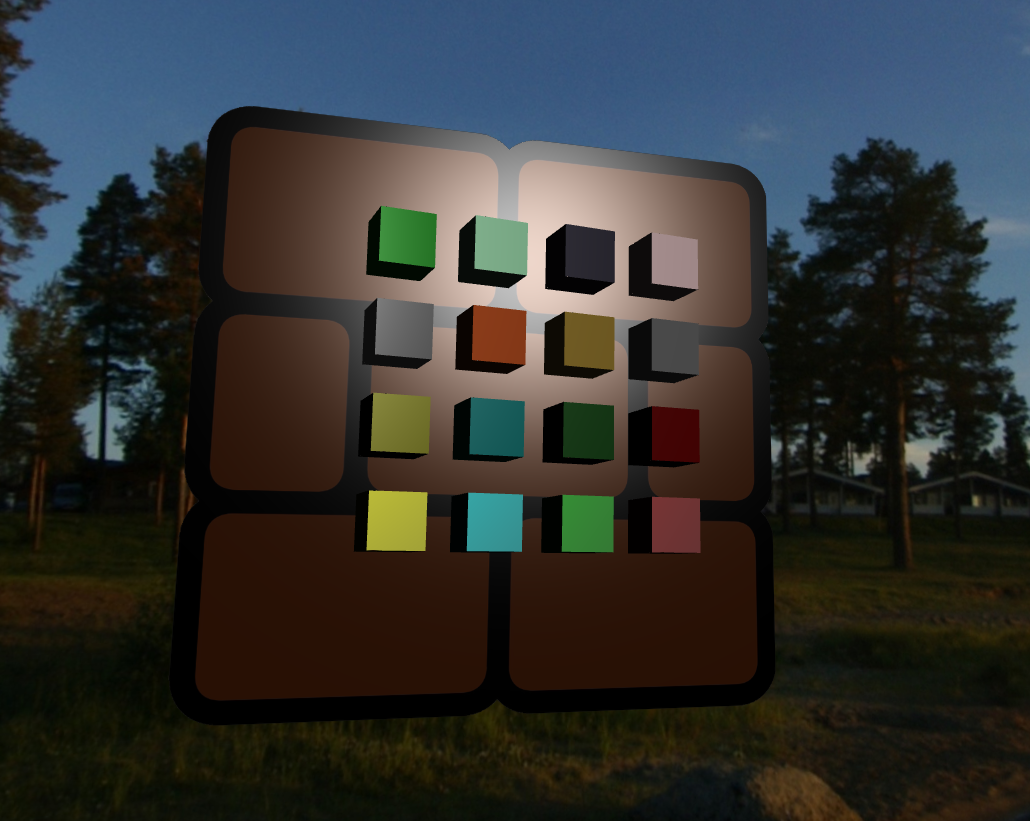
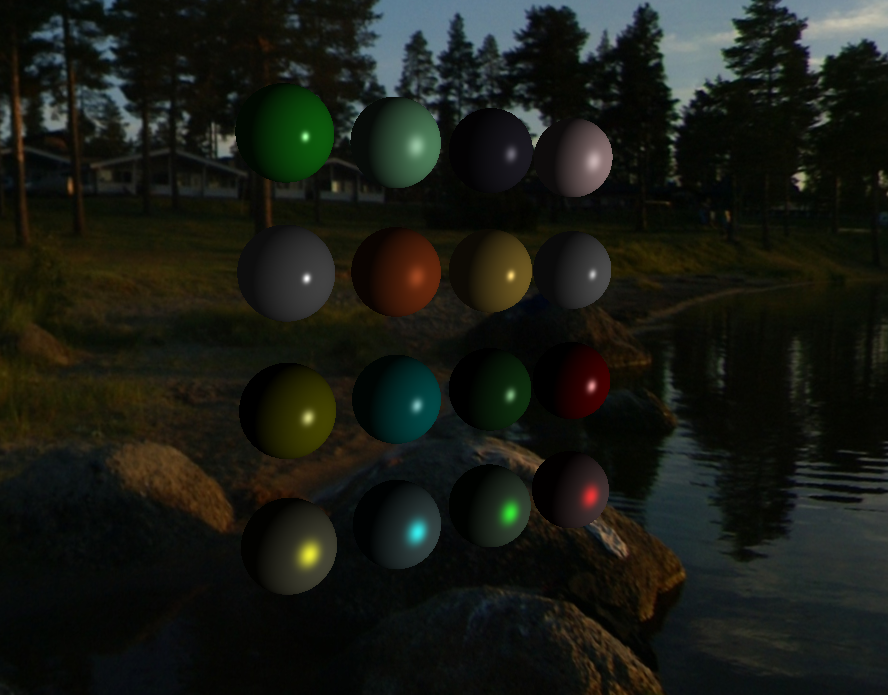
Sphere bug fixed, new demo, pbr light and working on pbr shader

diff --git a/Sandbox/src/TestLayer.cpp b/Sandbox/src/TestLayer.cpp
@@ -56,11 +56,10 @@ void TestLayer::OnAttach()
 	m_EnvironmentMap = BIGOS::TextureCube::Create(environmentFiles);
 
 	m_GridMesh = BIGOS::MeshGenerator::CreateGrid(3.0f, 3.0f, 2, 2);
-	m_CubeMesh = BIGOS::MeshGenerator::CreateBox({ 1.0f, 1.0f, 1.0f });
+	//m_CubeMesh = BIGOS::MeshGenerator::CreateBox({ 1.0f, 1.0f, 1.0f });
 	m_Skybox = BIGOS::MeshGenerator::CreateBox({ 30.0f, 30.0f, 30.0f });
 	m_ScreenMesh = BIGOS::MeshGenerator::CreateScreen();
-	//m_Cube = BIGOS::MeshGenerator::CreateSmoothCube(1.0f);
-	//m_Cube = BIGOS::MeshGenerator::CreateSphere(1.0f, 32, 10);
+	m_CubeMesh = BIGOS::MeshGenerator::CreateSphere(1.0f, 64, 64);
 	
 	m_CBPerObject = BIGOS::ConstantBuffer::Create(sizeof(POConstantBufferData));
 	m_CBPerFrame = BIGOS::ConstantBuffer::Create(sizeof(PFConstantBufferData));
@@ -125,8 +124,7 @@ void TestLayer::OnUpdate(BIGOS::Utils::Timestep ts)
 	m_CBPerFrame->Bind(0);
 
 	POConstantBufferData cbPerObject;
-
-	//BIGOS::RenderCommand::SetBlending(false);
+	 /*
 	BIGOS::math::mat4 tempTrans = BIGOS::math::mat4::Translate(m_WallPosition);
 	BIGOS::math::mat4 tempRot = BIGOS::math::mat4::Rotate(90.0f, { 1, 0, 0 });
 	BIGOS::math::mat4 tempScale = BIGOS::math::mat4::Scale({ 5.0, 5.0f, 5.0f });
@@ -142,7 +140,7 @@ void TestLayer::OnUpdate(BIGOS::Utils::Timestep ts)
 	m_GridMesh->Render();
 	m_NormalTexture->Unbind(1);
 	m_Texture->Unbind();
-	
+	*/
 	
 	m_WhiteTexture->Bind();
 
@@ -152,8 +150,8 @@ void TestLayer::OnUpdate(BIGOS::Utils::Timestep ts)
 		for (size_t j = 0; j < 4; j++)
 		{
 			BIGOS::math::mat4 tempTrans = BIGOS::math::mat4::Translate({ -3.0f + 2 * j, 3.0f - 2 * i, -0.0f });
-			BIGOS::math::mat4 tempRot = BIGOS::math::mat4::Rotate(m_Rotation, { 0, 1, 0 });
-			BIGOS::math::mat4 tempScale = BIGOS::math::mat4::Scale({ 1.2f, 1.2f, 1.2f });
+			BIGOS::math::mat4 tempRot = BIGOS::math::mat4::Rotate(0, { 0, 1, 0 });
+			BIGOS::math::mat4 tempScale = BIGOS::math::mat4::Scale({ 0.7f, 0.7f, 0.7f });
 
 			cbPerObject.u_Transform = tempTrans * tempRot * tempScale;
 			cbPerObject.u_ViewProj = m_EditorCamera.GetViewProjection();

diff --git a/BIGOSengine/src/Engine/Renderer/MeshGenerator.cpp b/BIGOSengine/src/Engine/Renderer/MeshGenerator.cpp
@@ -129,18 +129,29 @@ namespace BIGOS {
 				//v.Normal.y = 1.0f;
 				//v.Normal.z = 1.0f;
 
+				v.TangentU.x = -radius * sinf(phi) * sinf(theta);
+				v.TangentU.y = 0.0f;
+				v.TangentU.z = +radius * sinf(phi) * cosf(theta);
+
+				v.TangentU = v.TangentU.Normalize();
+
+				v.UV.x = theta / PI;
+				v.UV.y = phi /PI;
+
 				vertices.push_back(v);
 			}
 		}
 
 		vertices.push_back(bottomVertex);
 
-		std::shared_ptr<VertexBuffer> vb = VertexBuffer::Create(vertices.size());
+		std::shared_ptr<VertexBuffer> vb = VertexBuffer::Create(vertices.size() * sizeof(Vertex));
 		vb->SetLayout({
 			{ BIGOS::ShaderDataType::Float3, "POSITION" },
-			{ BIGOS::ShaderDataType::Float3, "NORMAL"	}
+			{ BIGOS::ShaderDataType::Float3, "NORMAL"	},
+			{ BIGOS::ShaderDataType::Float3, "TANGENT"	},
+			{ BIGOS::ShaderDataType::Float2, "TEXCOORD"	}
 			});
-		vb->SetData(vertices.data(), vertices.size());
+		vb->SetData(vertices.data(), vertices.size() * sizeof(Vertex));
 
 		//
 		// Compute indices for top stack.  The top stack was written first to the vertex buffer
@@ -169,7 +180,7 @@ namespace BIGOS {
 				indices.push_back(baseIndex + i * ringVertexCount + j);
 				indices.push_back(baseIndex + i * ringVertexCount + j + 1);
 				indices.push_back(baseIndex + (i + 1) * ringVertexCount + j);
-				
+
 				indices.push_back(baseIndex + (i + 1) * ringVertexCount + j);
 				indices.push_back(baseIndex + i * ringVertexCount + j + 1);
 				indices.push_back(baseIndex + (i + 1) * ringVertexCount + j + 1);
@@ -194,7 +205,7 @@ namespace BIGOS {
 			indices.push_back(baseIndex + i + 1);
 		}
 
-		std::shared_ptr<IndexBuffer> ib = IndexBuffer::Create(indices.data(),indices.size());
+		std::shared_ptr<IndexBuffer> ib = IndexBuffer::Create(indices.data(), indices.size());
 
 		return new Mesh(vb, ib);
 	}

diff --git a/BIGOSengine/src/Engine/Renderer/Light.h b/BIGOSengine/src/Engine/Renderer/Light.h
@@ -5,6 +5,19 @@
 
 namespace BIGOS {
 
+
+	__declspec(align(16)) 
+	struct Light
+	{
+		math::vec4 Color;
+		math::vec3 Position;
+		math::vec3 Direction;
+		float Intensity;
+
+		Light(const math::vec3& direction, const math::vec3& position, float intensity = 1.0f, const math::vec4& color = math::vec4(1.0f))
+			: Direction(direction), Position(position), Color(color), Intensity(intensity) {}
+	};
+
 	__declspec(align(16)) 
 	struct PhongLight
 	{
@@ -19,7 +32,7 @@ namespace BIGOS {
 
 		}
 
-		PhongLight(math::vec4 ambient, math::vec4 diffuse, math::vec4 specular, math::vec3 direction)
+		PhongLight(const math::vec4& ambient, const math::vec4& diffuse, const math::vec4& specular, const math::vec3& direction)
 			: Ambient(ambient), Diffuse(diffuse), Specular(specular), Direction(direction) {}
 	};
 
